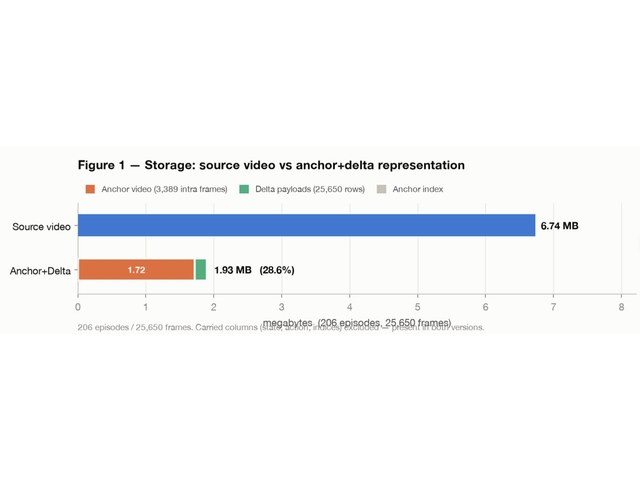
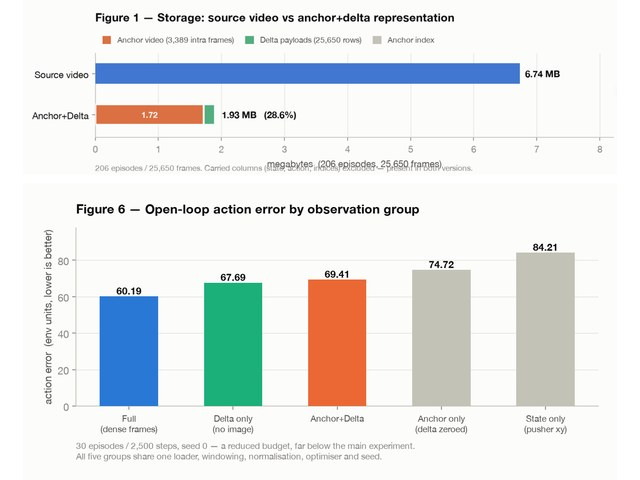
Add a row to the TGIF and DELTA figures
The DWA pipeline joins the TGIF composite and the open-loop action-error
chart joins DELTA's, so both fill the 4:3 box instead of padding it.

diff --git a/index.html b/index.html
@@ -101,8 +101,8 @@
     <article class="entry research-entry">
       <div class="research-media">
         <figure class="entry-figure">
-        <a href="assets/research/tgif.jpg" target="_blank" rel="noopener"><img src="assets/research/tgif.jpg" alt="WEAR qualitative segmentation comparison, and YOLO-detected operator regions at four TGIF stations" loading="lazy"></a>
-          <figcaption>WEAR segmentation against the baselines, and the dual-ROI operator crops.</figcaption>
+        <a href="assets/research/tgif.jpg" target="_blank" rel="noopener"><img src="assets/research/tgif.jpg" alt="WEAR qualitative segmentation comparison, the Dynamic Window Attention pipeline, and YOLO-detected operator regions at four TGIF stations" loading="lazy"></a>
+          <figcaption>WEAR segmentation against the baselines, the DWA pipeline, and the dual-ROI operator crops.</figcaption>
         </figure>
         <div class="entry-actions">
           <a href="https://github.com/shureduan/TGIF-Multimodal-Temporal-Segmentation" target="_blank" rel="noopener"><svg width="14" height="14" viewBox="0 0 24 24" fill="currentColor"><path d="M12 .5C5.37.5 0 5.87 0 12.5c0 5.3 3.44 9.8 8.21 11.39.6.11.82-.26.82-.58v-2.23c-3.34.73-4.04-1.42-4.04-1.42-.55-1.39-1.34-1.76-1.34-1.76-1.09-.75.08-.73.08-.73 1.2.08 1.84 1.24 1.84 1.24 1.07 1.84 2.81 1.31 3.5 1 .11-.78.42-1.31.76-1.61-2.67-.3-5.47-1.34-5.47-5.95 0-1.31.47-2.39 1.24-3.23-.12-.3-.54-1.52.12-3.18 0 0 1.01-.32 3.3 1.23a11.5 11.5 0 0 1 6.01 0c2.29-1.55 3.3-1.23 3.3-1.23.66 1.66.24 2.88.12 3.18.77.84 1.24 1.92 1.24 3.23 0 4.62-2.81 5.64-5.49 5.94.43.37.82 1.1.82 2.22v3.29c0 .32.21.7.82.58A12.01 12.01 0 0 0 24 12.5C24 5.87 18.63.5 12 .5z"/></svg> GitHub</a>
@@ -152,8 +152,8 @@
     <article class="entry research-entry">
       <div class="research-media">
         <figure class="entry-figure">
-        <a href="assets/research/delta.jpg" target="_blank" rel="noopener"><img src="assets/research/delta.jpg" alt="Bar chart comparing source video storage with the anchor plus delta representation" loading="lazy"></a>
-          <figcaption>Anchor+delta holds the same 206 episodes in 28.6% of the source-video bytes.</figcaption>
+        <a href="assets/research/delta.jpg" target="_blank" rel="noopener"><img src="assets/research/delta.jpg" alt="Storage comparison between source video and the anchor plus delta representation, and open-loop action error across five observation groups" loading="lazy"></a>
+          <figcaption>Storage against dense video, and open-loop action error by observation group.</figcaption>
         </figure>
         <div class="entry-actions">
           <a href="https://github.com/ailisilob/DELTA" target="_blank" rel="noopener"><svg width="14" height="14" viewBox="0 0 24 24" fill="currentColor"><path d="M12 .5C5.37.5 0 5.87 0 12.5c0 5.3 3.44 9.8 8.21 11.39.6.11.82-.26.82-.58v-2.23c-3.34.73-4.04-1.42-4.04-1.42-.55-1.39-1.34-1.76-1.34-1.76-1.09-.75.08-.73.08-.73 1.2.08 1.84 1.24 1.84 1.24 1.07 1.84 2.81 1.31 3.5 1 .11-.78.42-1.31.76-1.61-2.67-.3-5.47-1.34-5.47-5.95 0-1.31.47-2.39 1.24-3.23-.12-.3-.54-1.52.12-3.18 0 0 1.01-.32 3.3 1.23a11.5 11.5 0 0 1 6.01 0c2.29-1.55 3.3-1.23 3.3-1.23.66 1.66.24 2.88.12 3.18.77.84 1.24 1.92 1.24 3.23 0 4.62-2.81 5.64-5.49 5.94.43.37.82 1.1.82 2.22v3.29c0 .32.21.7.82.58A12.01 12.01 0 0 0 24 12.5C24 5.87 18.63.5 12 .5z"/></svg> GitHub</a>
